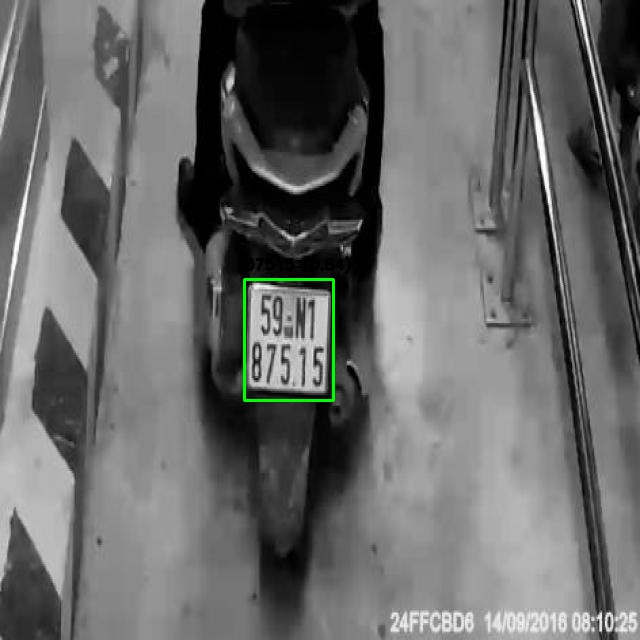
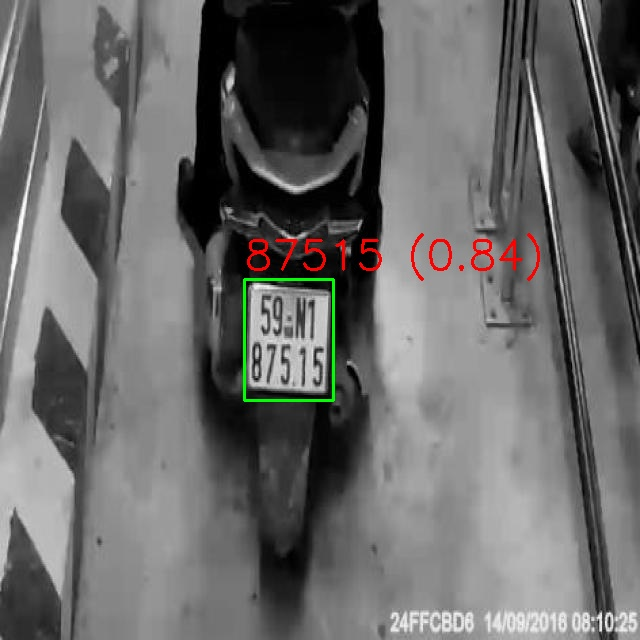
draft fix

Changed region(s): [[0.625, 0.3438, 0.8438, 0.4375], [0.375, 0.375, 0.5938, 0.4375]]

diff --git a/src/ocr_processor.py b/src/ocr_processor.py
@@ -16,41 +16,48 @@ class VietnameseOCR:
 
     def preprocess_plate_image(self, plate_img: np.ndarray) -> np.ndarray:
         gray = cv2.cvtColor(plate_img, cv2.COLOR_BGR2GRAY)
-        resized = cv2.resize(gray, None, fx=2.0, fy=2.0, interpolation=cv2.INTER_LINEAR)
-        return resized
+        resized = cv2.resize(gray, None, fx=2.5, fy=2.5, interpolation=cv2.INTER_LINEAR)
+        denoised = cv2.GaussianBlur(resized, (3, 3), 0)
+        _, thresh = cv2.threshold(denoised, 0, 255, cv2.THRESH_BINARY + cv2.THRESH_OTSU)
+        return thresh
 
     def extract_text(self, plate_img: np.ndarray) -> Optional[str]:
         try:
-            processed_img = self.preprocess_plate_image(plate_img)
+           processed = self.preprocess_plate_image(plate_img)
+           results = self.reader.readtext(processed)
+
+           if not results:
+            return None
+
+            # Sắp xếp theo vị trí y tăng dần (dòng trên trước dòng dưới)
+           sorted_lines = sorted(results, key=lambda x: x[0][0][1])
+
+            # ✅ Lấy 2 dòng có độ tin cậy cao nhất
+           texts = []
+           for line in sorted_lines:
+            if line[2] > 0.4:
+                texts.append(line[1])
+            if len(texts) == 2:
+                break
             
-            # Debug: Lưu ảnh đã xử lý để kiểm tra nếu cần
-            # cv2.imwrite("processed_plate.png", processed_img)
-
-            results = self.reader.readtext(processed_img)
-            print("📸 OCR kết quả:", results)
-
-            if not results:
-                return None
-
-            # Lấy kết quả có độ tin cậy cao nhất
-            best_text = max(results, key=lambda x: x[2])[1]
-            cleaned_text = self.clean_text(best_text)
-
-            print("🔤 Text sau làm sạch:", cleaned_text)
-
-            # Tạm thời bỏ kiểm tra định dạng để kiểm tra OCR có hoạt động hay không
-            return cleaned_text
-            # Nếu muốn bật kiểm tra định dạng sau:
-            # return cleaned_text if self.validate_plate_format(cleaned_text) else None
+           full_text = ' '.join(texts)
+           cleaned = self.clean_text(full_text)
+           print("🔤 Text sau làm sạch:", cleaned)
+           return cleaned if cleaned else None
 
         except Exception as e:
             print(f"❌ Lỗi OCR: {e}")
             return None
 
+
     def clean_text(self, text: str) -> str:
         # Làm sạch ký tự không hợp lệ và chuẩn hóa
         cleaned = re.sub(r'[^A-Z0-9-]', '', text.upper())
-        corrections = {'O': '0', 'I': '1', 'S': '5'}
+        corrections = {
+    'O': '0',  # Biển VN không có chữ 'O'
+    'I': '1',  # Không có 'I'
+    'Q': '0'   # Không có 'Q'
+}
         for wrong, correct in corrections.items():
             cleaned = cleaned.replace(wrong, correct)
         return cleaned

diff --git a/src/plate_detector.py b/src/plate_detector.py
@@ -51,5 +51,5 @@ class MotorbikePlateDetector:
             # Vẽ khung và label
             cv2.rectangle(annotated, (x1, y1), (x2, y2), (0, 255, 0), 2)
             cv2.putText(annotated, label, (x1, y1 - 10),
-                        cv2.FONT_HERSHEY_SIMPLEX, 0.5, (0, 0, 0), 2)
+            cv2.FONT_HERSHEY_SIMPLEX, 1.4, (0, 0, 255), 2)
         return annotated
